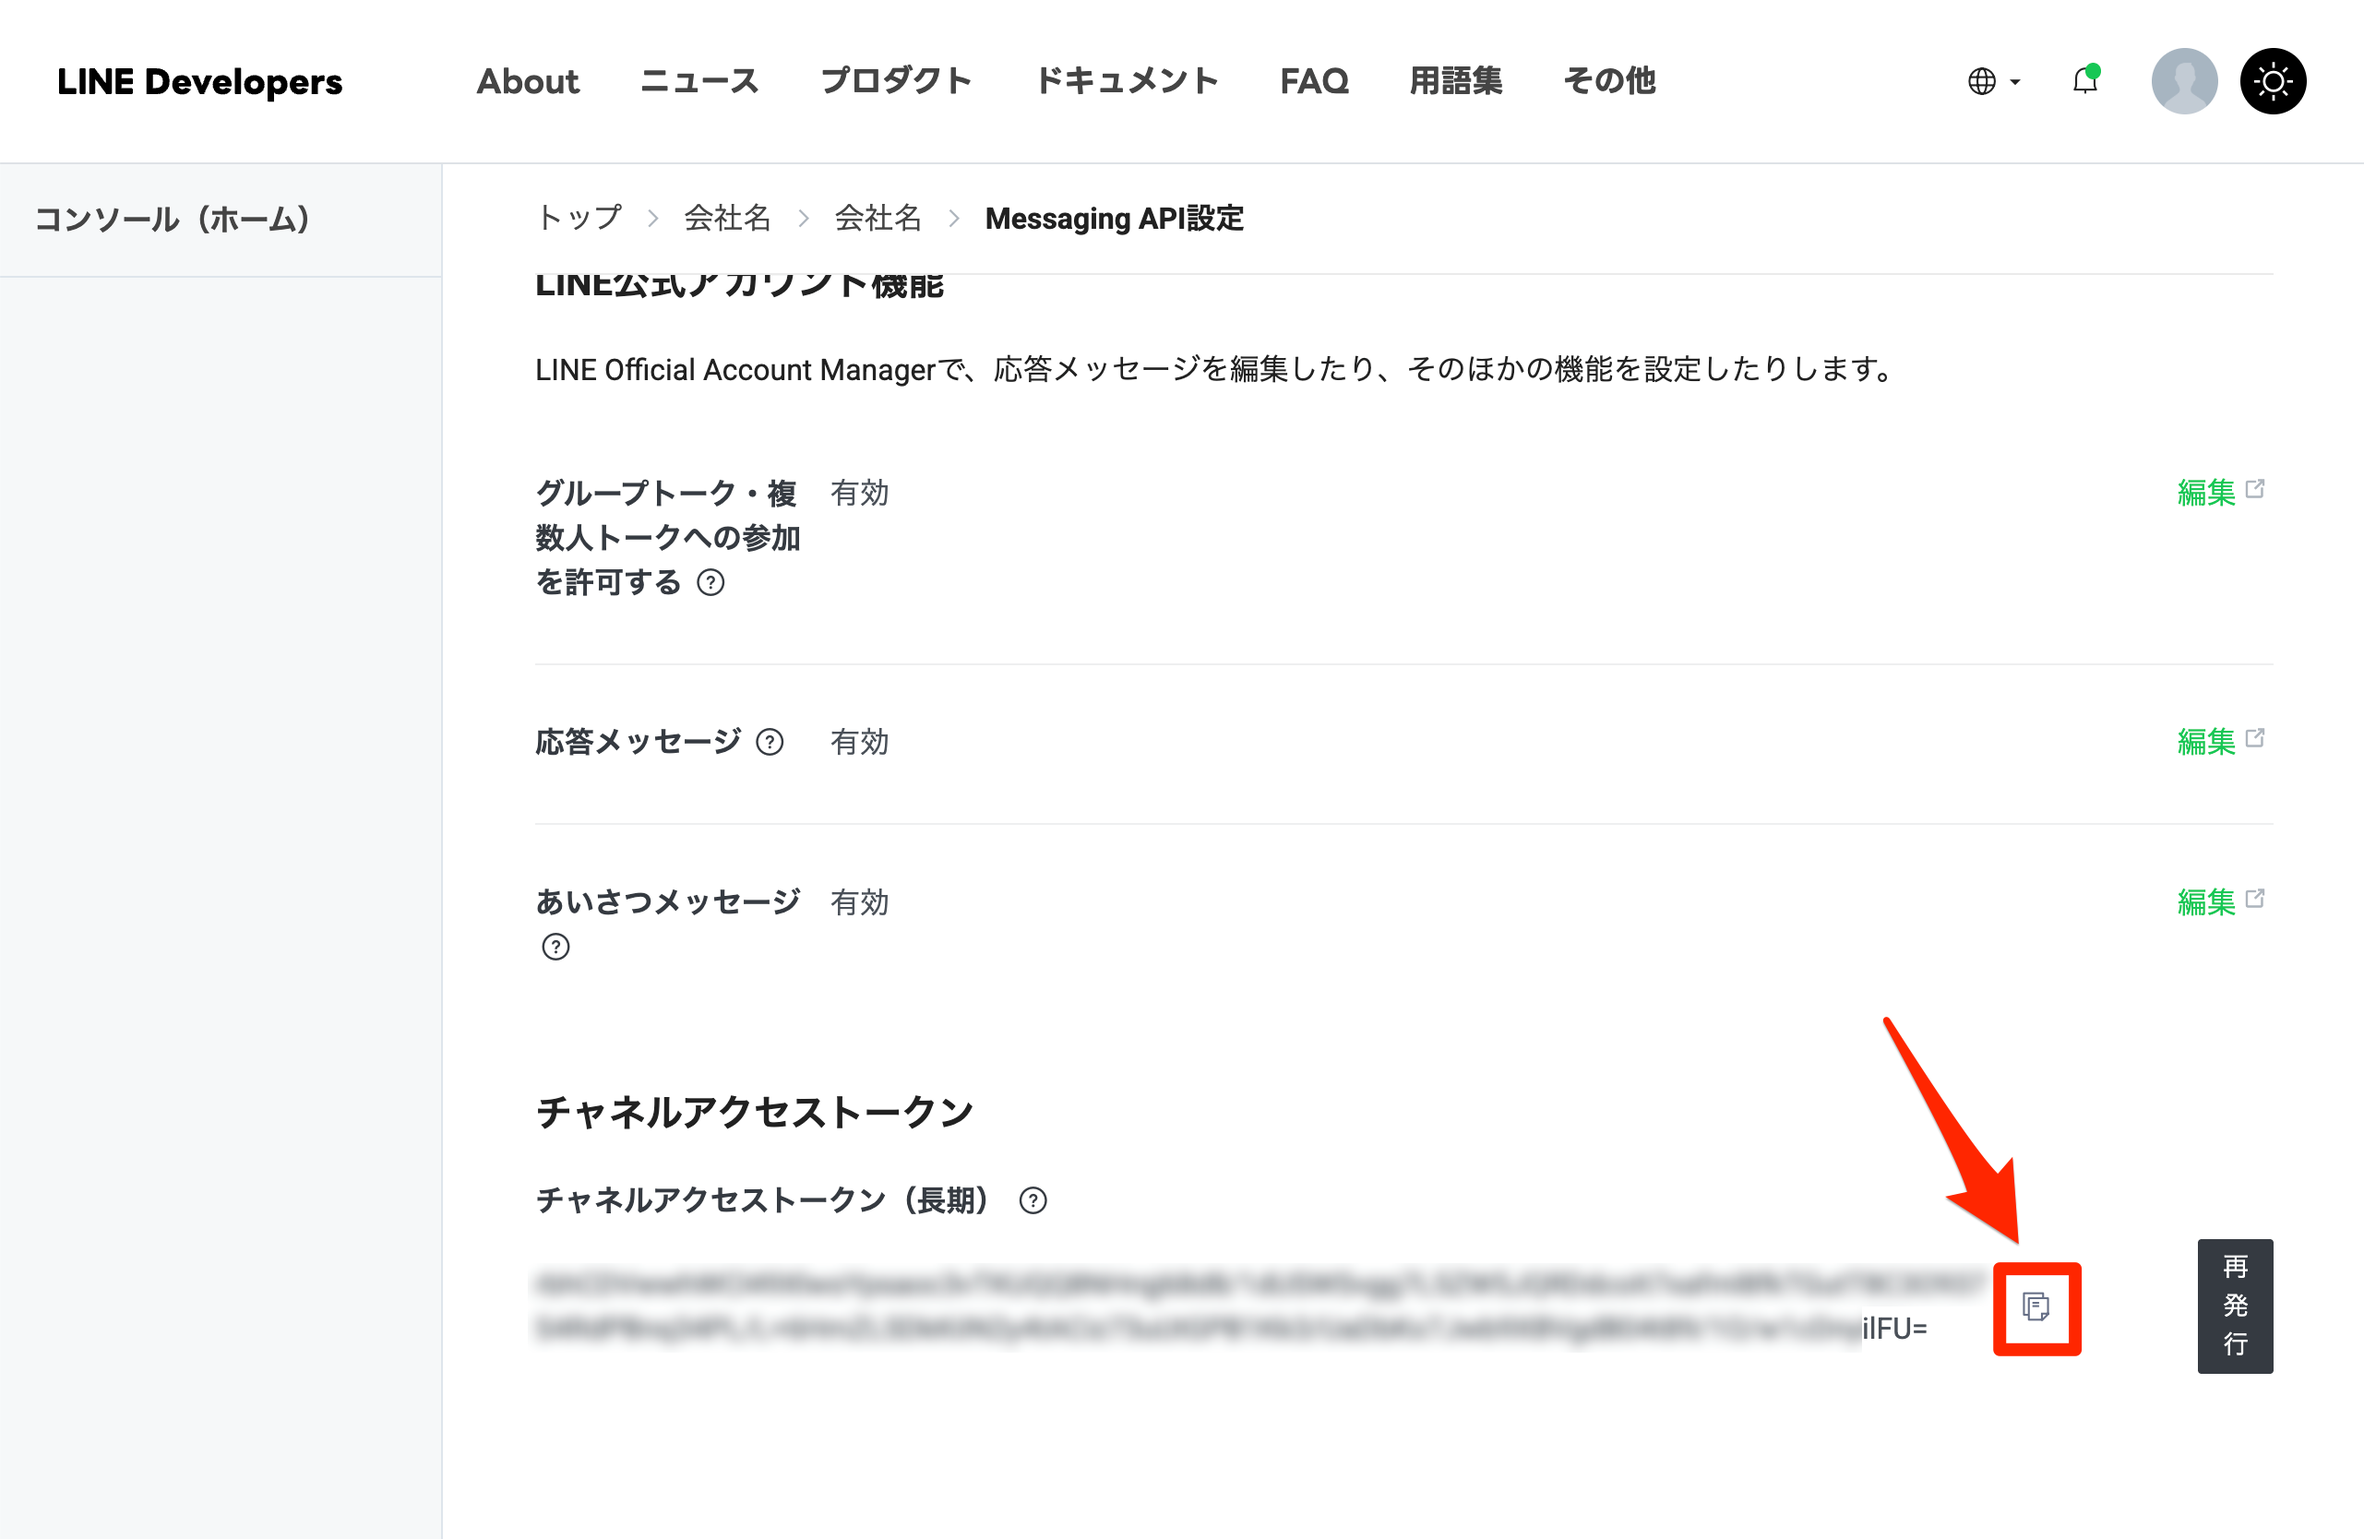
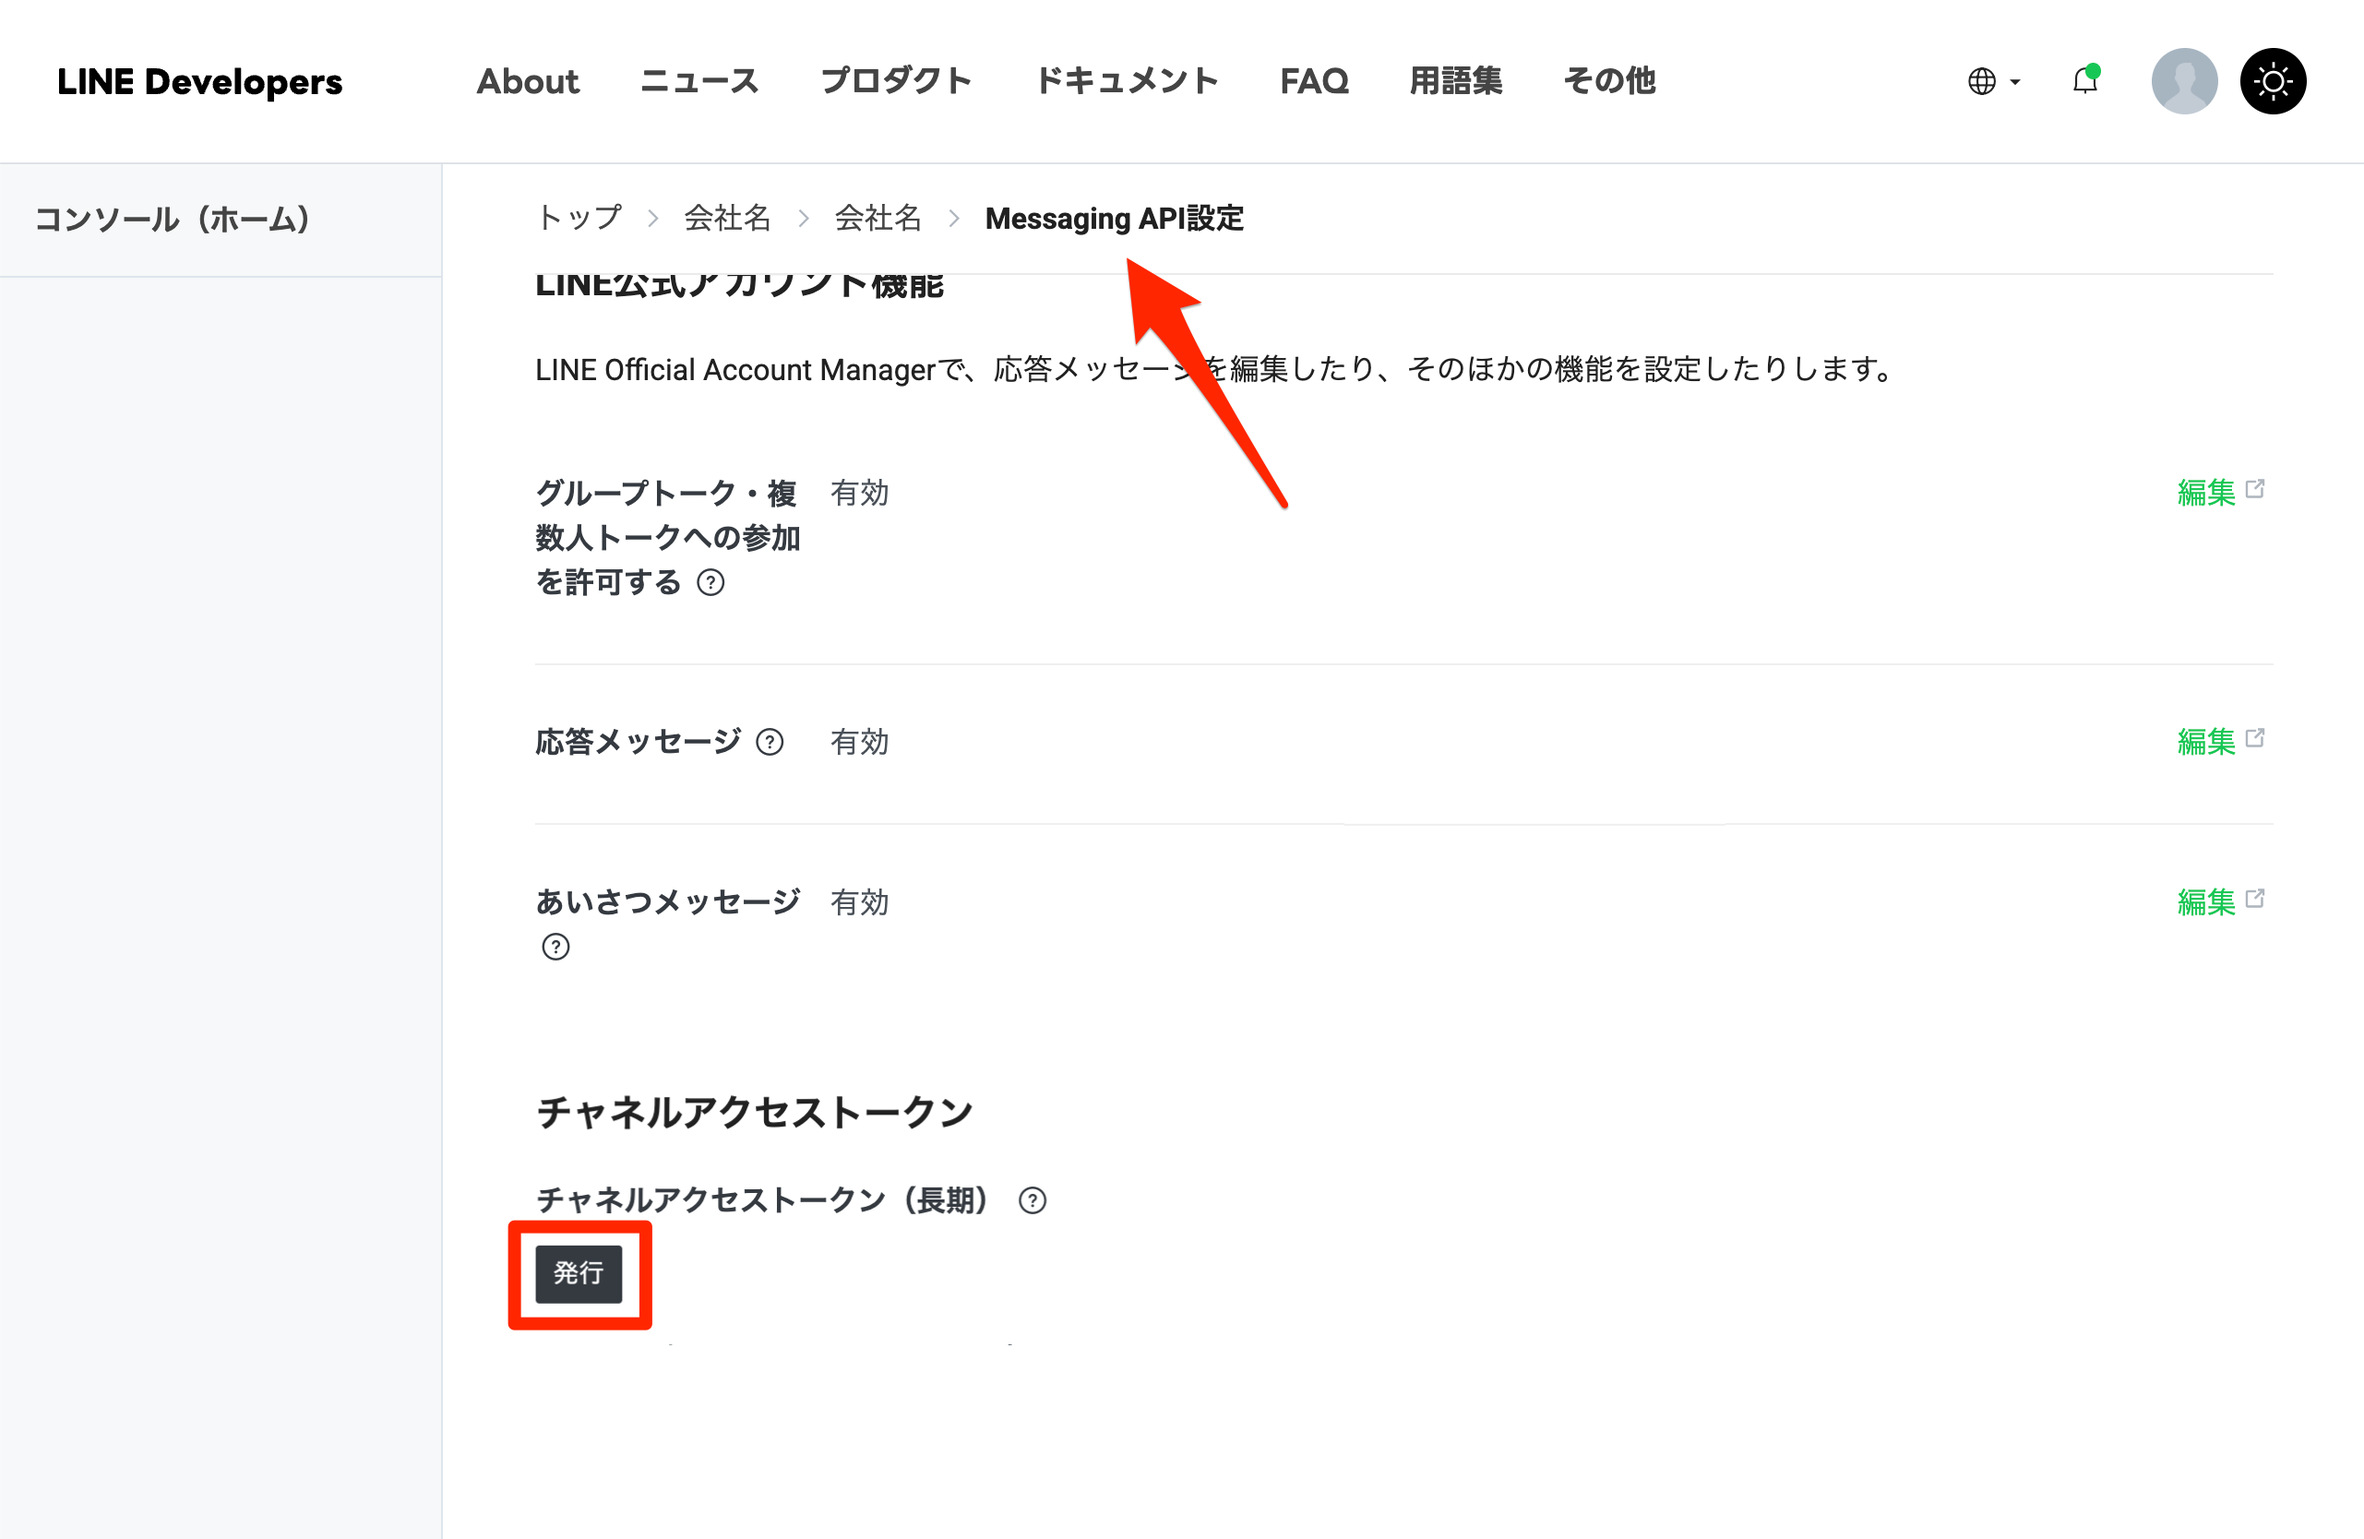
wip

Changed region(s): [[0.1874, 0.6859, 0.968, 0.9041], [0.4684, 0.1559, 0.5308, 0.3118], [0.7806, 0.6547, 0.8119, 0.6859]]

diff --git a/app/docs/line-setup/page.tsx b/app/docs/line-setup/page.tsx
@@ -265,6 +265,184 @@ export default function LinePage() {
           </p>
         </div>
       </section>
+
+      <section>
+        <div className="text-2xl" style={{ color: fontColor1 }}>
+          （任意）チャネルアクセストークン設定
+        </div>
+
+        <Divider style={{ background: fontColor2 }} />
+
+        <div className="space-y-4">
+          <p>
+            この設定は任意ですが、
+            <strong style={{ color: fontColor1 }}>
+              LINEトーク内の画像をKenchiku AIで利用する場合は必須
+            </strong>
+            です。
+          </p>
+
+          <p>
+            チャネルアクセストークンを設定すると、LINEのすべてのトークに投稿された画像をKenchiku AIが取得し、AIが画像の説明文と関連タグを自動で生成します。また、
+            <strong style={{ color: fontColor1 }}>
+              「トークから自動入力」
+            </strong>
+            を実行した際には、会話中の画像もあわせてレポートへ自動的に追加されます。
+          </p>
+
+          <ol className="list-decimal pl-6 space-y-3">
+            <li>
+              LINE Official Account Managerで
+              <strong style={{ color: fontColor1 }}>
+                「設定 → Messaging API」
+              </strong>
+              を開きます。画面下部にある
+              <strong style={{ color: fontColor1 }}>
+                「LINE Developersコンソール」
+              </strong>
+              のリンクをクリックします。
+            </li>
+
+            <Image
+              src="/line-docs-screenshot-15.png"
+              alt="LINE Developersコンソールへのリンク"
+              width={2568}
+              height={1512}
+              priority
+              className="my-10 border"
+              style={{ borderColor: bgColor5 }}
+            />
+
+            <li>
+              LINE Developersコンソールが開いたら、先ほど作成した
+              <strong style={{ color: fontColor1 }}>
+                プロバイダー
+              </strong>
+              をクリックします。
+            </li>
+
+            <Image
+              src="/line-docs-screenshot-16.png"
+              alt="LINE Developersコンソールのプロバイダー一覧"
+              width={2566}
+              height={1082}
+              priority
+              className="my-10 border"
+              style={{ borderColor: bgColor5 }}
+            />
+
+            <li>
+              次に、作成した
+              <strong style={{ color: fontColor1 }}>
+                Messaging APIチャネル
+              </strong>
+              をクリックします。
+            </li>
+
+            <Image
+              src="/line-docs-screenshot-17.png"
+              alt="Messaging APIチャネルの選択"
+              width={2564}
+              height={1626}
+              priority
+              className="my-10 border"
+              style={{ borderColor: bgColor5 }}
+            />
+
+            <li>
+              画面上部の
+              <strong style={{ color: fontColor1 }}>
+                「Messaging API設定」
+              </strong>
+              タブを選択します。
+            </li>
+
+            <Image
+              src="/line-docs-screenshot-18.png"
+              alt="Messaging API設定タブ"
+              width={2562}
+              height={1756}
+              priority
+              className="my-10 border"
+              style={{ borderColor: bgColor5 }}
+            />
+
+            <li>
+              下へスクロールして
+              <strong style={{ color: fontColor1 }}>
+                「チャネルアクセストークン」
+              </strong>
+              の項目を表示し、
+              <strong style={{ color: fontColor1 }}>
+                「発行」
+              </strong>
+              ボタンをクリックします。
+            </li>
+
+            <Image
+              src="/line-docs-screenshot-19.png"
+              alt="チャネルアクセストークンの発行"
+              width={2562}
+              height={1668}
+              priority
+              className="my-10 border"
+              style={{ borderColor: bgColor5 }}
+            />
+
+            <li>
+              発行された
+              <strong style={{ color: fontColor1 }}>
+                チャネルアクセストークン
+              </strong>
+              の横にあるコピーアイコンをクリックしてコピーします。
+            </li>
+
+            <Image
+              src="/line-docs-screenshot-20.png"
+              alt="チャネルアクセストークンのコピー"
+              width={2562}
+              height={1668}
+              priority
+              className="my-10 border"
+              style={{ borderColor: bgColor5 }}
+            />
+
+            <li>
+              Kenchiku AIに戻り、
+              <strong style={{ color: fontColor1 }}>
+                「LINE連携」
+              </strong>
+              ページを開きます。
+              <strong style={{ color: fontColor1 }}>
+                「チャネルアクセストークン」
+              </strong>
+              欄にコピーした値を貼り付け、
+              <strong style={{ color: fontColor1 }}>
+                「保存」
+              </strong>
+              をクリックします。
+            </li>
+
+            <Image
+              src="/line-docs-screenshot-21.png"
+              alt="Kenchiku AIでチャネルアクセストークンを設定"
+              width={2566}
+              height={1356}
+              priority
+              className="my-10 border"
+              style={{ borderColor: bgColor5 }}
+            />
+          </ol>
+
+          <p>
+            以上でチャネルアクセストークンの設定は完了です。以降はLINEトーク内の画像も自動的に取得・解析され、
+            <strong style={{ color: fontColor1 }}>
+              「トークから自動入力」
+            </strong>
+            を実行した際に、会話中の画像がレポートへ自動的に追加されます。
+          </p>
+        </div>
+      </section>
     </div>
   );
 }

diff --git a/app/(app)/projects/[projectId]/ConversationModal.tsx b/app/(app)/projects/[projectId]/ConversationModal.tsx
@@ -10,6 +10,7 @@ import { Check, DownChevron, Info, Trash, UpChevron } from "@/app/ui/Icons";
 import LineLinkCodeButton from "@/app/ui/LineLinkCodeButton";
 import QRCode from "react-qr-code";
 import Link from "next/link";
+import { useIsMobile } from "@/lib/useIsMobile";
 
 interface ConversationModalProps {
   conversation?: Conversation;
@@ -31,6 +32,7 @@ const ConversationModal: FC<ConversationModalProps> = ({
   const [name, setName] = useState("");
   const [selectedItemTypes, setSelectedItemTypes] = useState<ConversationItemType[]>([]);
   const [hideQRCode, setHideQRCode] = useState(false);
+  const { isMobile } = useIsMobile();
   const { t } = useTranslation();
 
   const reset = () => {
@@ -67,7 +69,10 @@ const ConversationModal: FC<ConversationModalProps> = ({
           <>
             <Divider />
             <div className="mx-3">
-              <LineLinkCodeButton code={conversation.line_link_code} />
+              <LineLinkCodeButton
+                code={conversation.line_link_code}
+                shorten={isMobile}
+              />
             </div>
             <Divider />
             <div className="hidden md:block">

diff --git a/app/(app)/reports/[reportId]/ReportDashboard.tsx b/app/(app)/reports/[reportId]/ReportDashboard.tsx
@@ -325,7 +325,7 @@ const ReportDashboard: FC<ReportDashboardProps> = ({ reportId }) => {
               {sortedFields?.map((field, i) => (
                 <div key={field.id}>
                   {i > 0 && <Divider />}
-                  <div className="px-2">
+                  <div className="md:px-2">
                     <Input
                       placeholder={field.name}
                       value={fieldValues?.[field.id] ?? ""}
